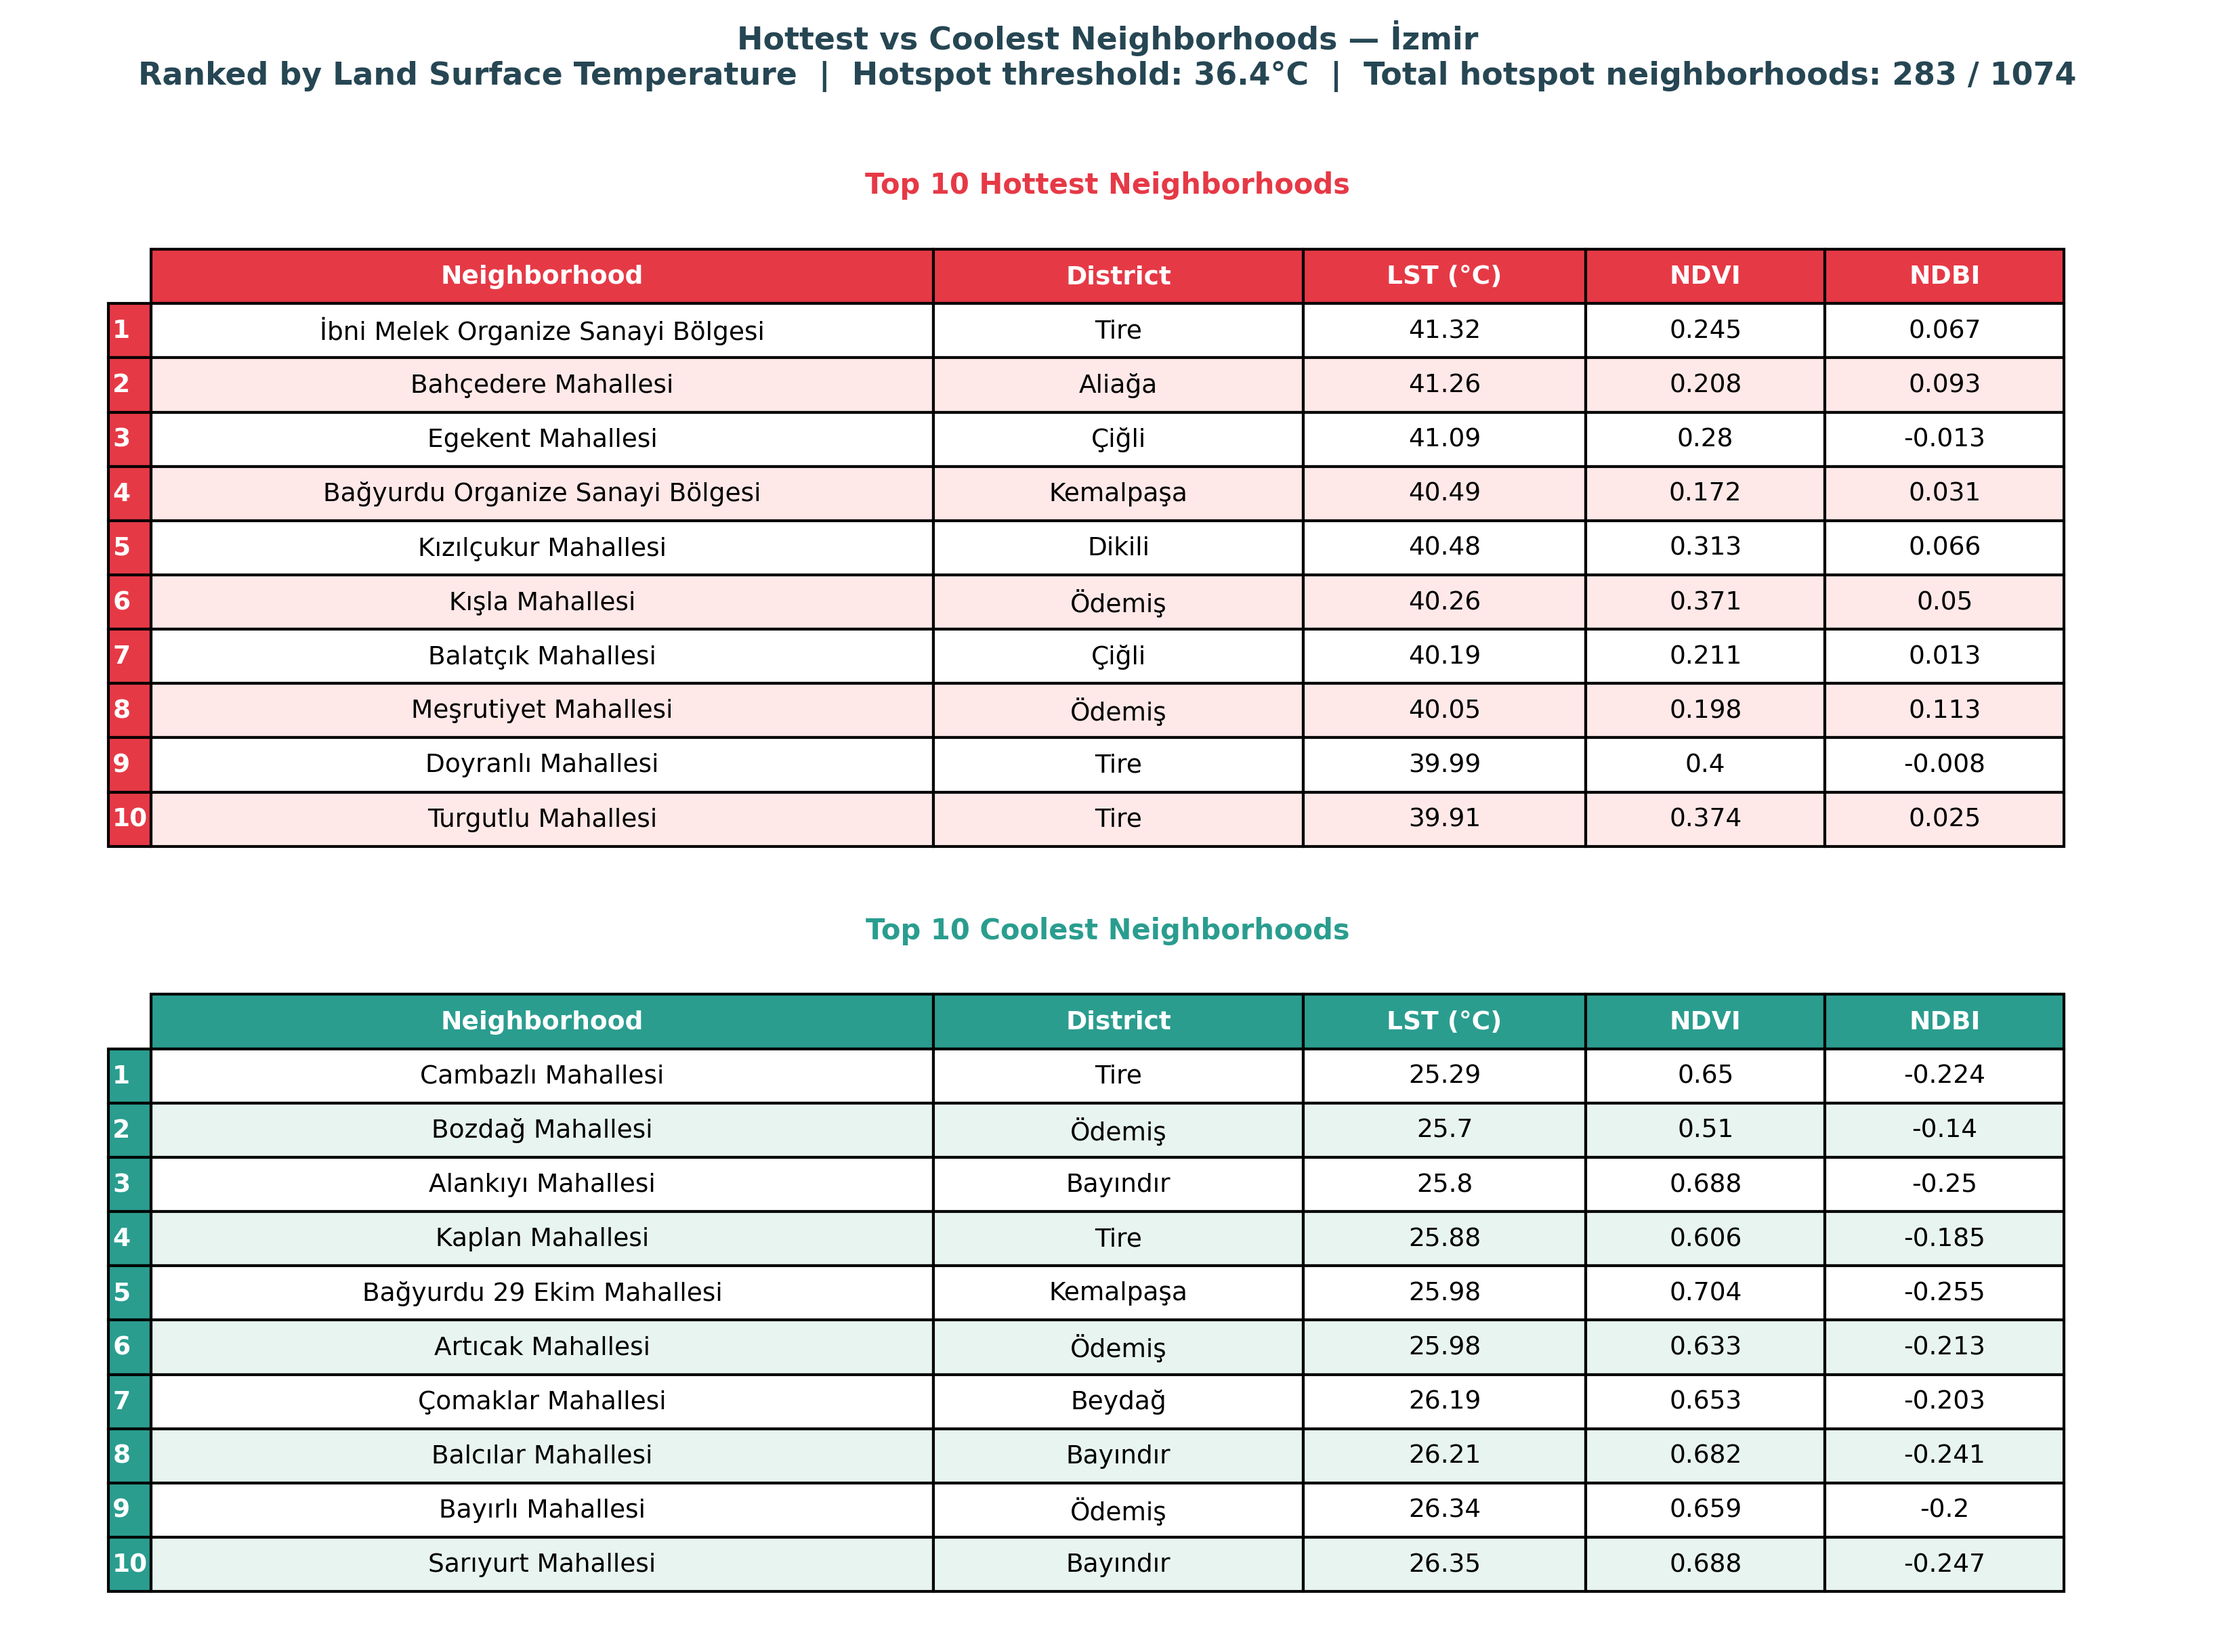
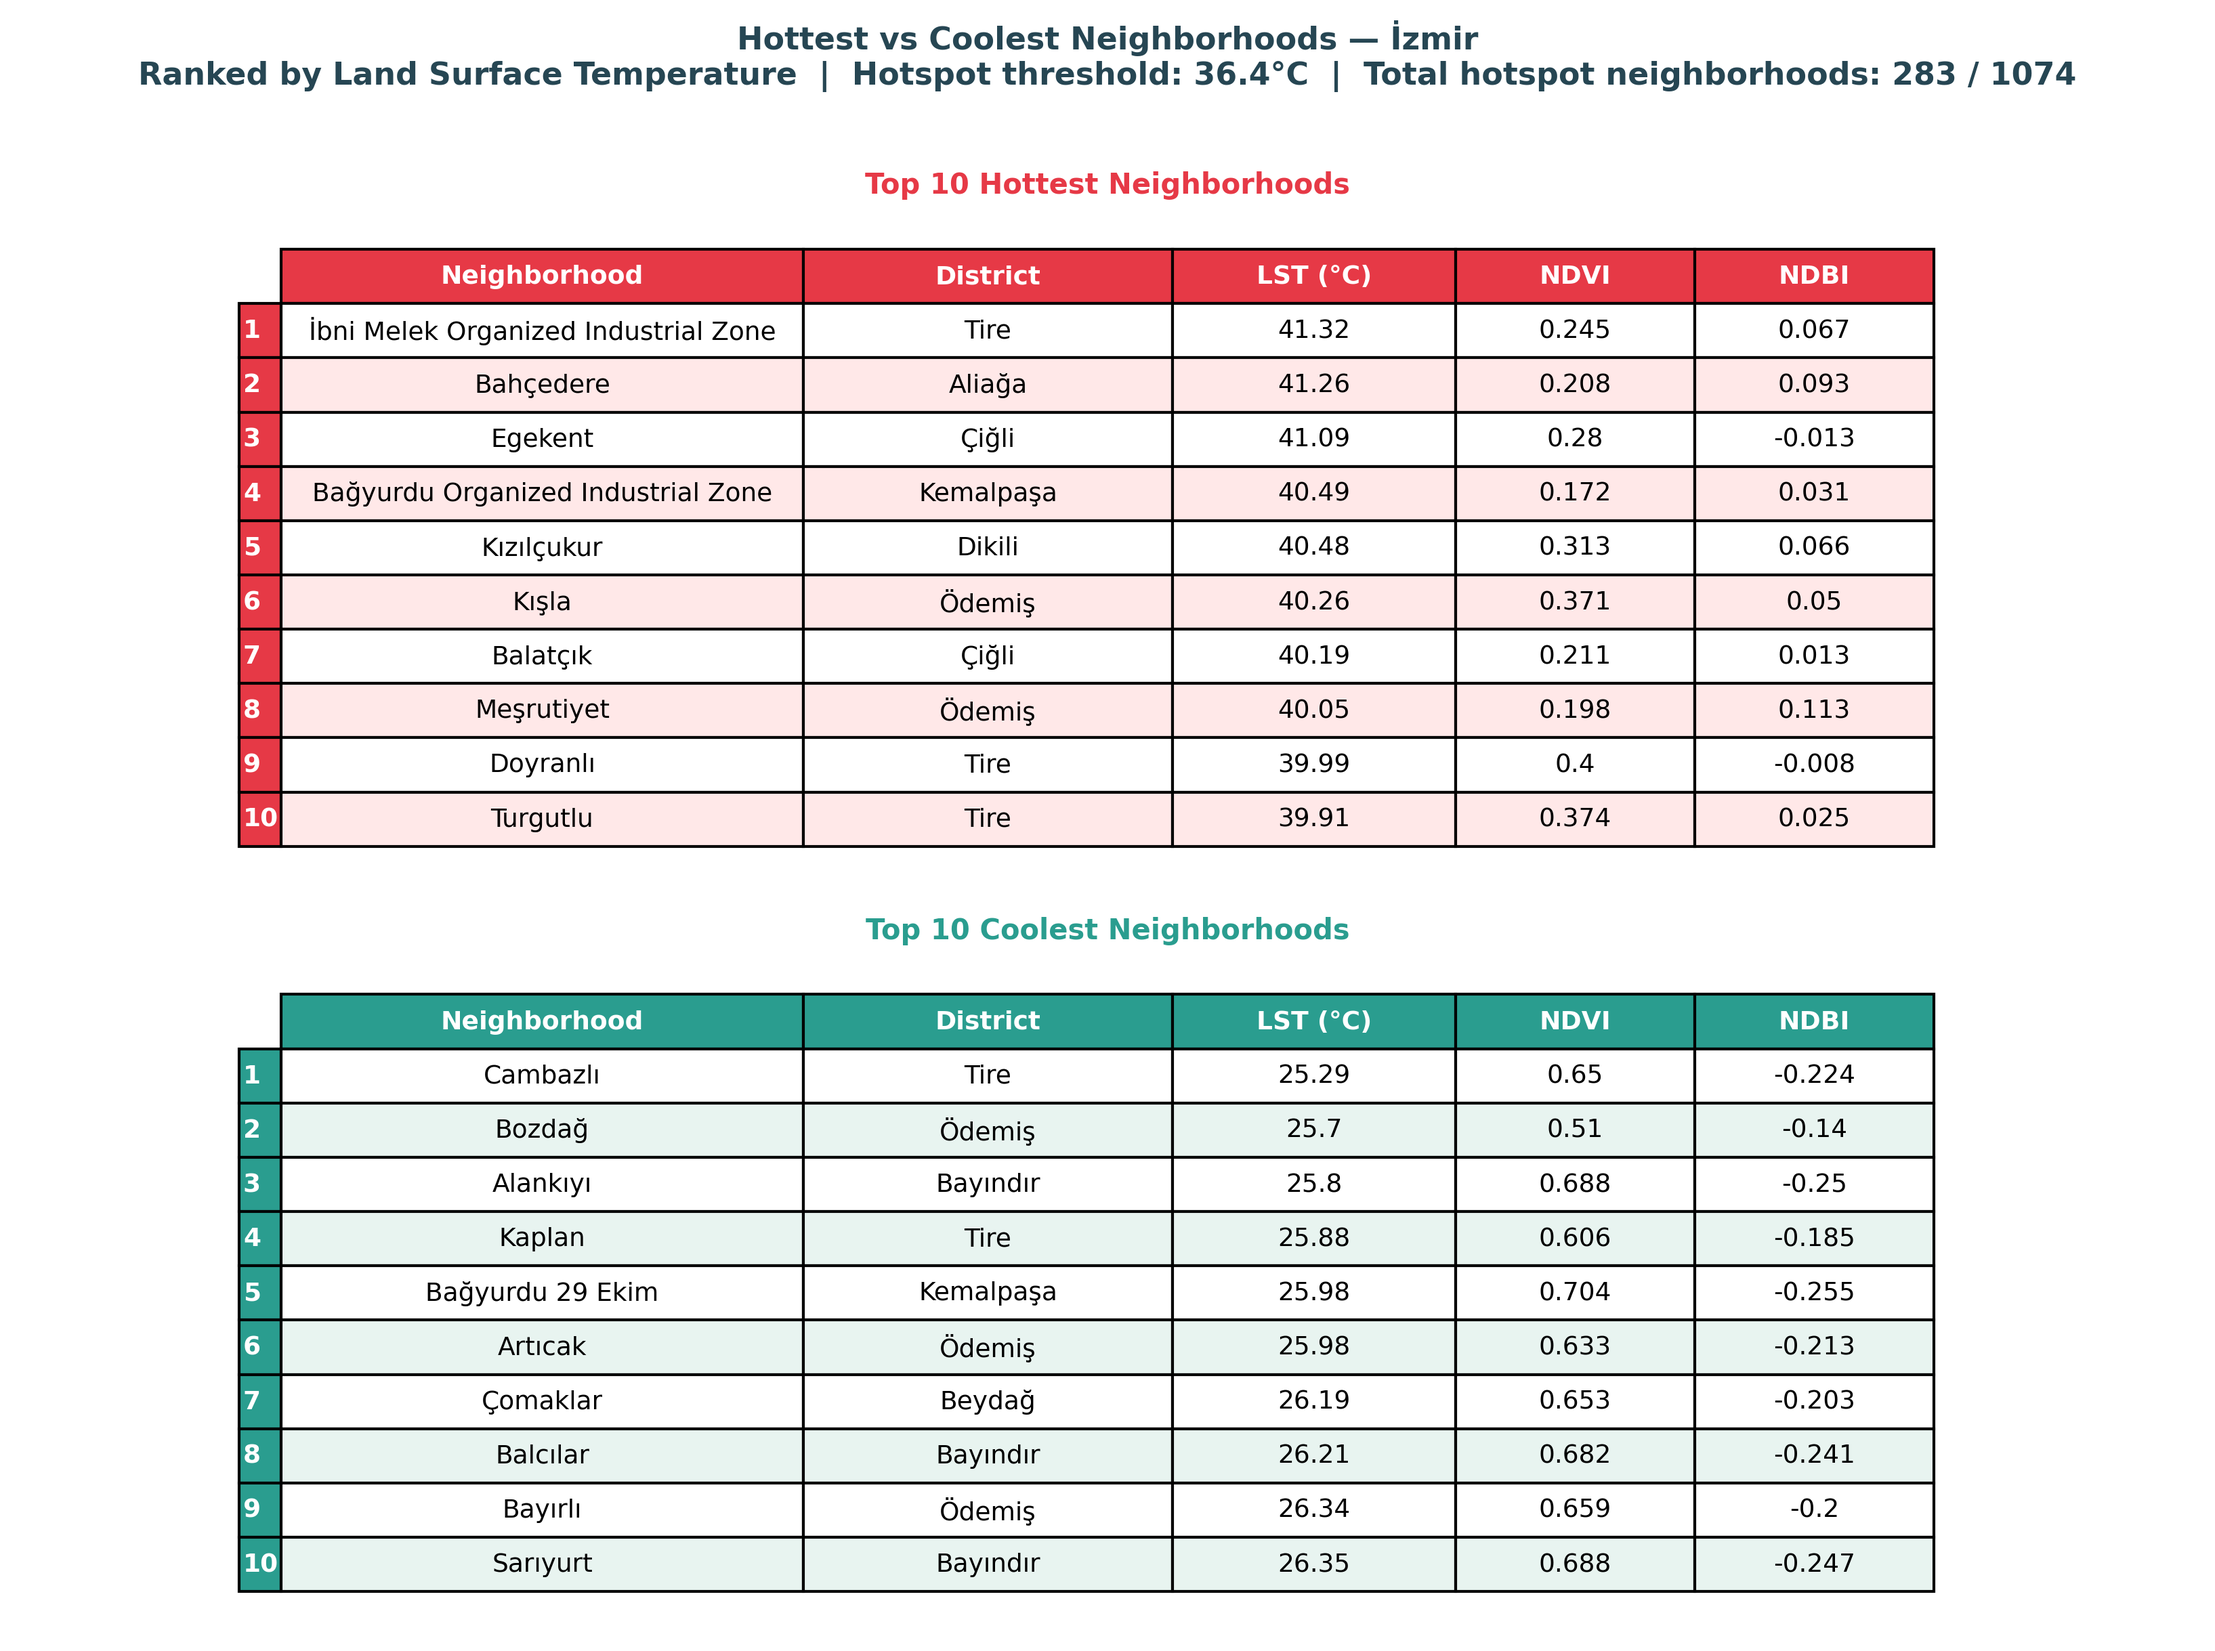
some column size arrangments has been made on hotspot coolspot table

diff --git a/PlotsForGreenFieldandHeatMap.py b/PlotsForGreenFieldandHeatMap.py
@@ -282,21 +282,30 @@ print("   Saved: 4_ndvi_category_distribution.png")
 # ============================================================
 print("5/5 Generating LST hotspot/coolspot table...")
 
+# --- Display name cleaner (data untouched) ---
+def clean_name(name):
+    name = name.replace(" Mahallesi", "").replace(" mahallesi", "")
+    name = name.replace(" Organize Sanayi Bölgesi", " Organized Industrial Zone")
+    return name.strip()
+
+# Top 10 hottest
 top10 = (df.sort_values("LST_C", ascending=False)
            [["name", "ilce_adi", "LST_C", "NDVI", "NDBI"]]
            .head(10).reset_index(drop=True))
 top10.index = range(1, 11)
 
+# Top 10 coolest
 bottom10 = (df.sort_values("LST_C", ascending=True)
               [["name", "ilce_adi", "LST_C", "NDVI", "NDBI"]]
               .head(10).reset_index(drop=True))
-bottom10.index = range(1, 11)  # 1-10 for coolest too
+bottom10.index = range(1, 11)
 
 combined_top    = top10.copy()
 combined_bottom = bottom10.copy()
 
 for df_part in [combined_top, combined_bottom]:
     df_part.columns = ["Neighborhood", "District", "LST (°C)", "NDVI", "NDBI"]
+    df_part["Neighborhood"] = df_part["Neighborhood"].apply(clean_name)
     df_part["LST (°C)"] = df_part["LST (°C)"].round(2)
     df_part["NDVI"]     = df_part["NDVI"].round(3)
     df_part["NDBI"]     = df_part["NDBI"].round(3)
@@ -304,7 +313,7 @@ for df_part in [combined_top, combined_bottom]:
 total_hotspots = len(df[df["LST_C"] >= LST_THRESHOLD])
 
 # Narrow column widths
-col_widths = [0.36, 0.17, 0.13, 0.11, 0.11]
+col_widths = [0.24, 0.17, 0.13, 0.11, 0.11]
 
 fig, (ax_top, ax_bot) = plt.subplots(2, 1, figsize=(11, 8))
 fig.patch.set_facecolor("white")
@@ -381,7 +390,6 @@ plt.savefig("LST-NDVI-NDBI-Charts/5_lst_hotspot_coolspot_table.png",
             dpi=300, bbox_inches="tight", facecolor="white")
 plt.close()
 print("   Saved: 5_lst_hotspot_coolspot_table.png")
-
 
 # ============================================================
 # SUMMARY
